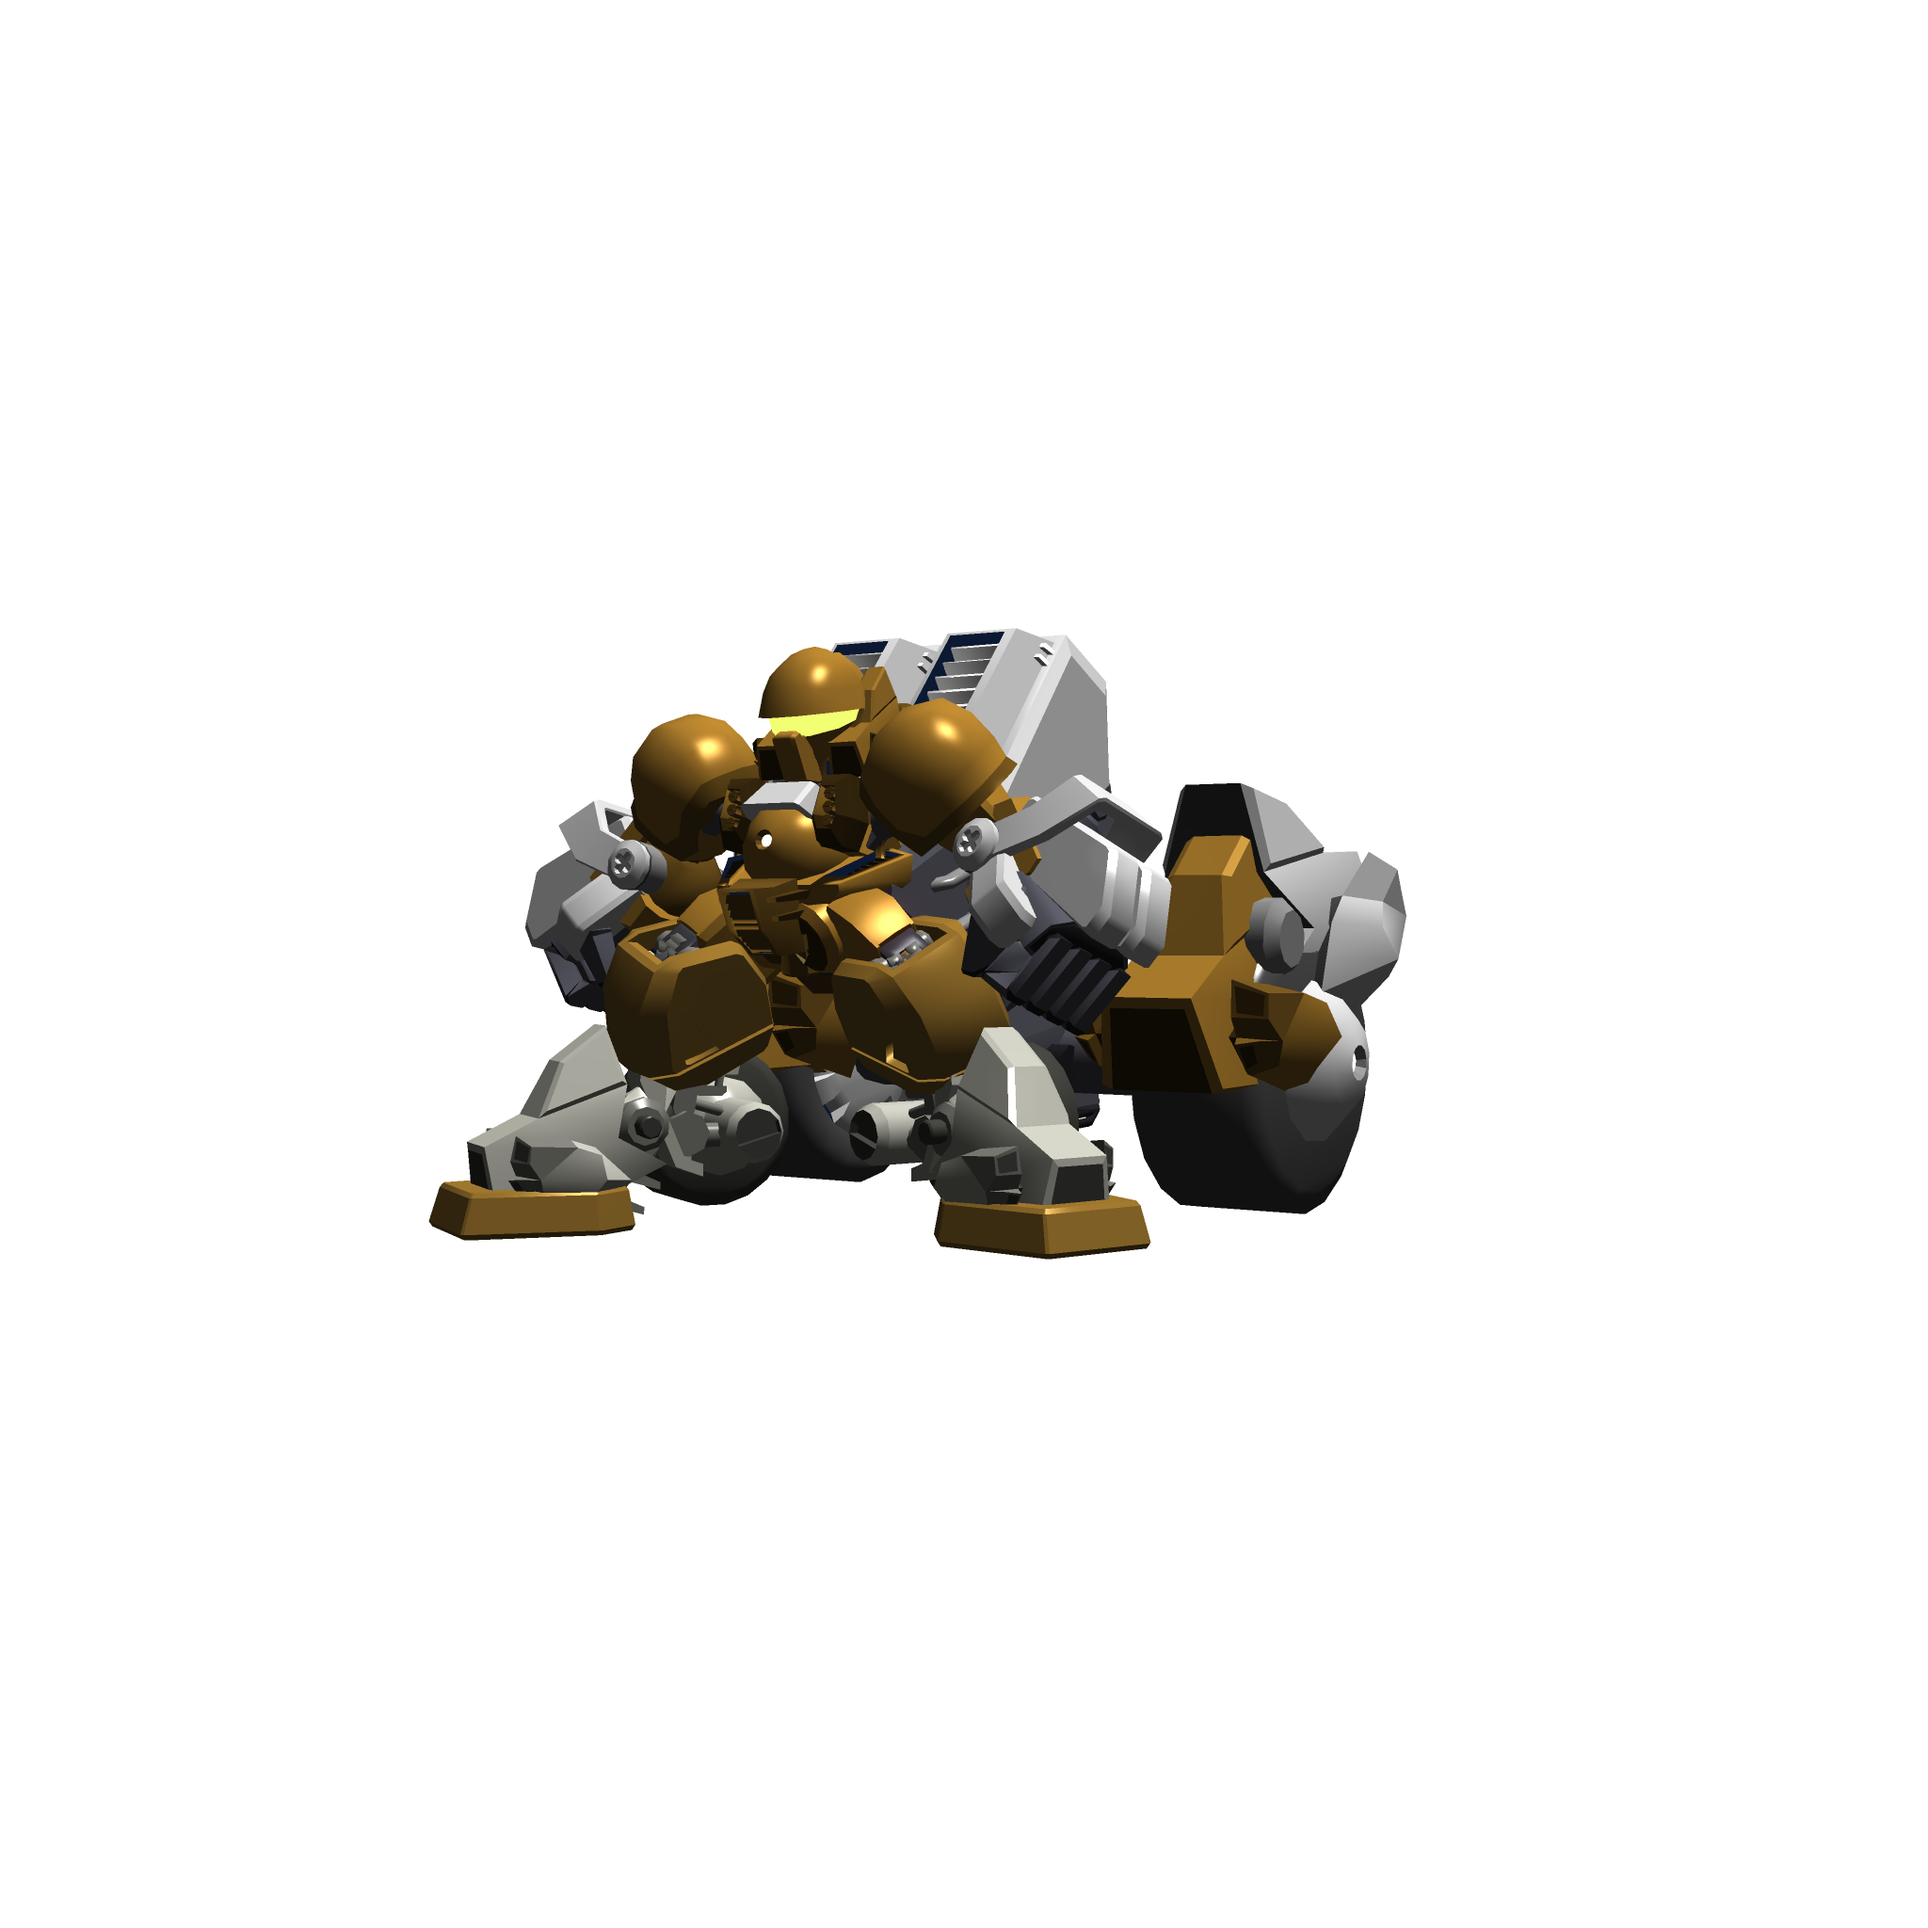
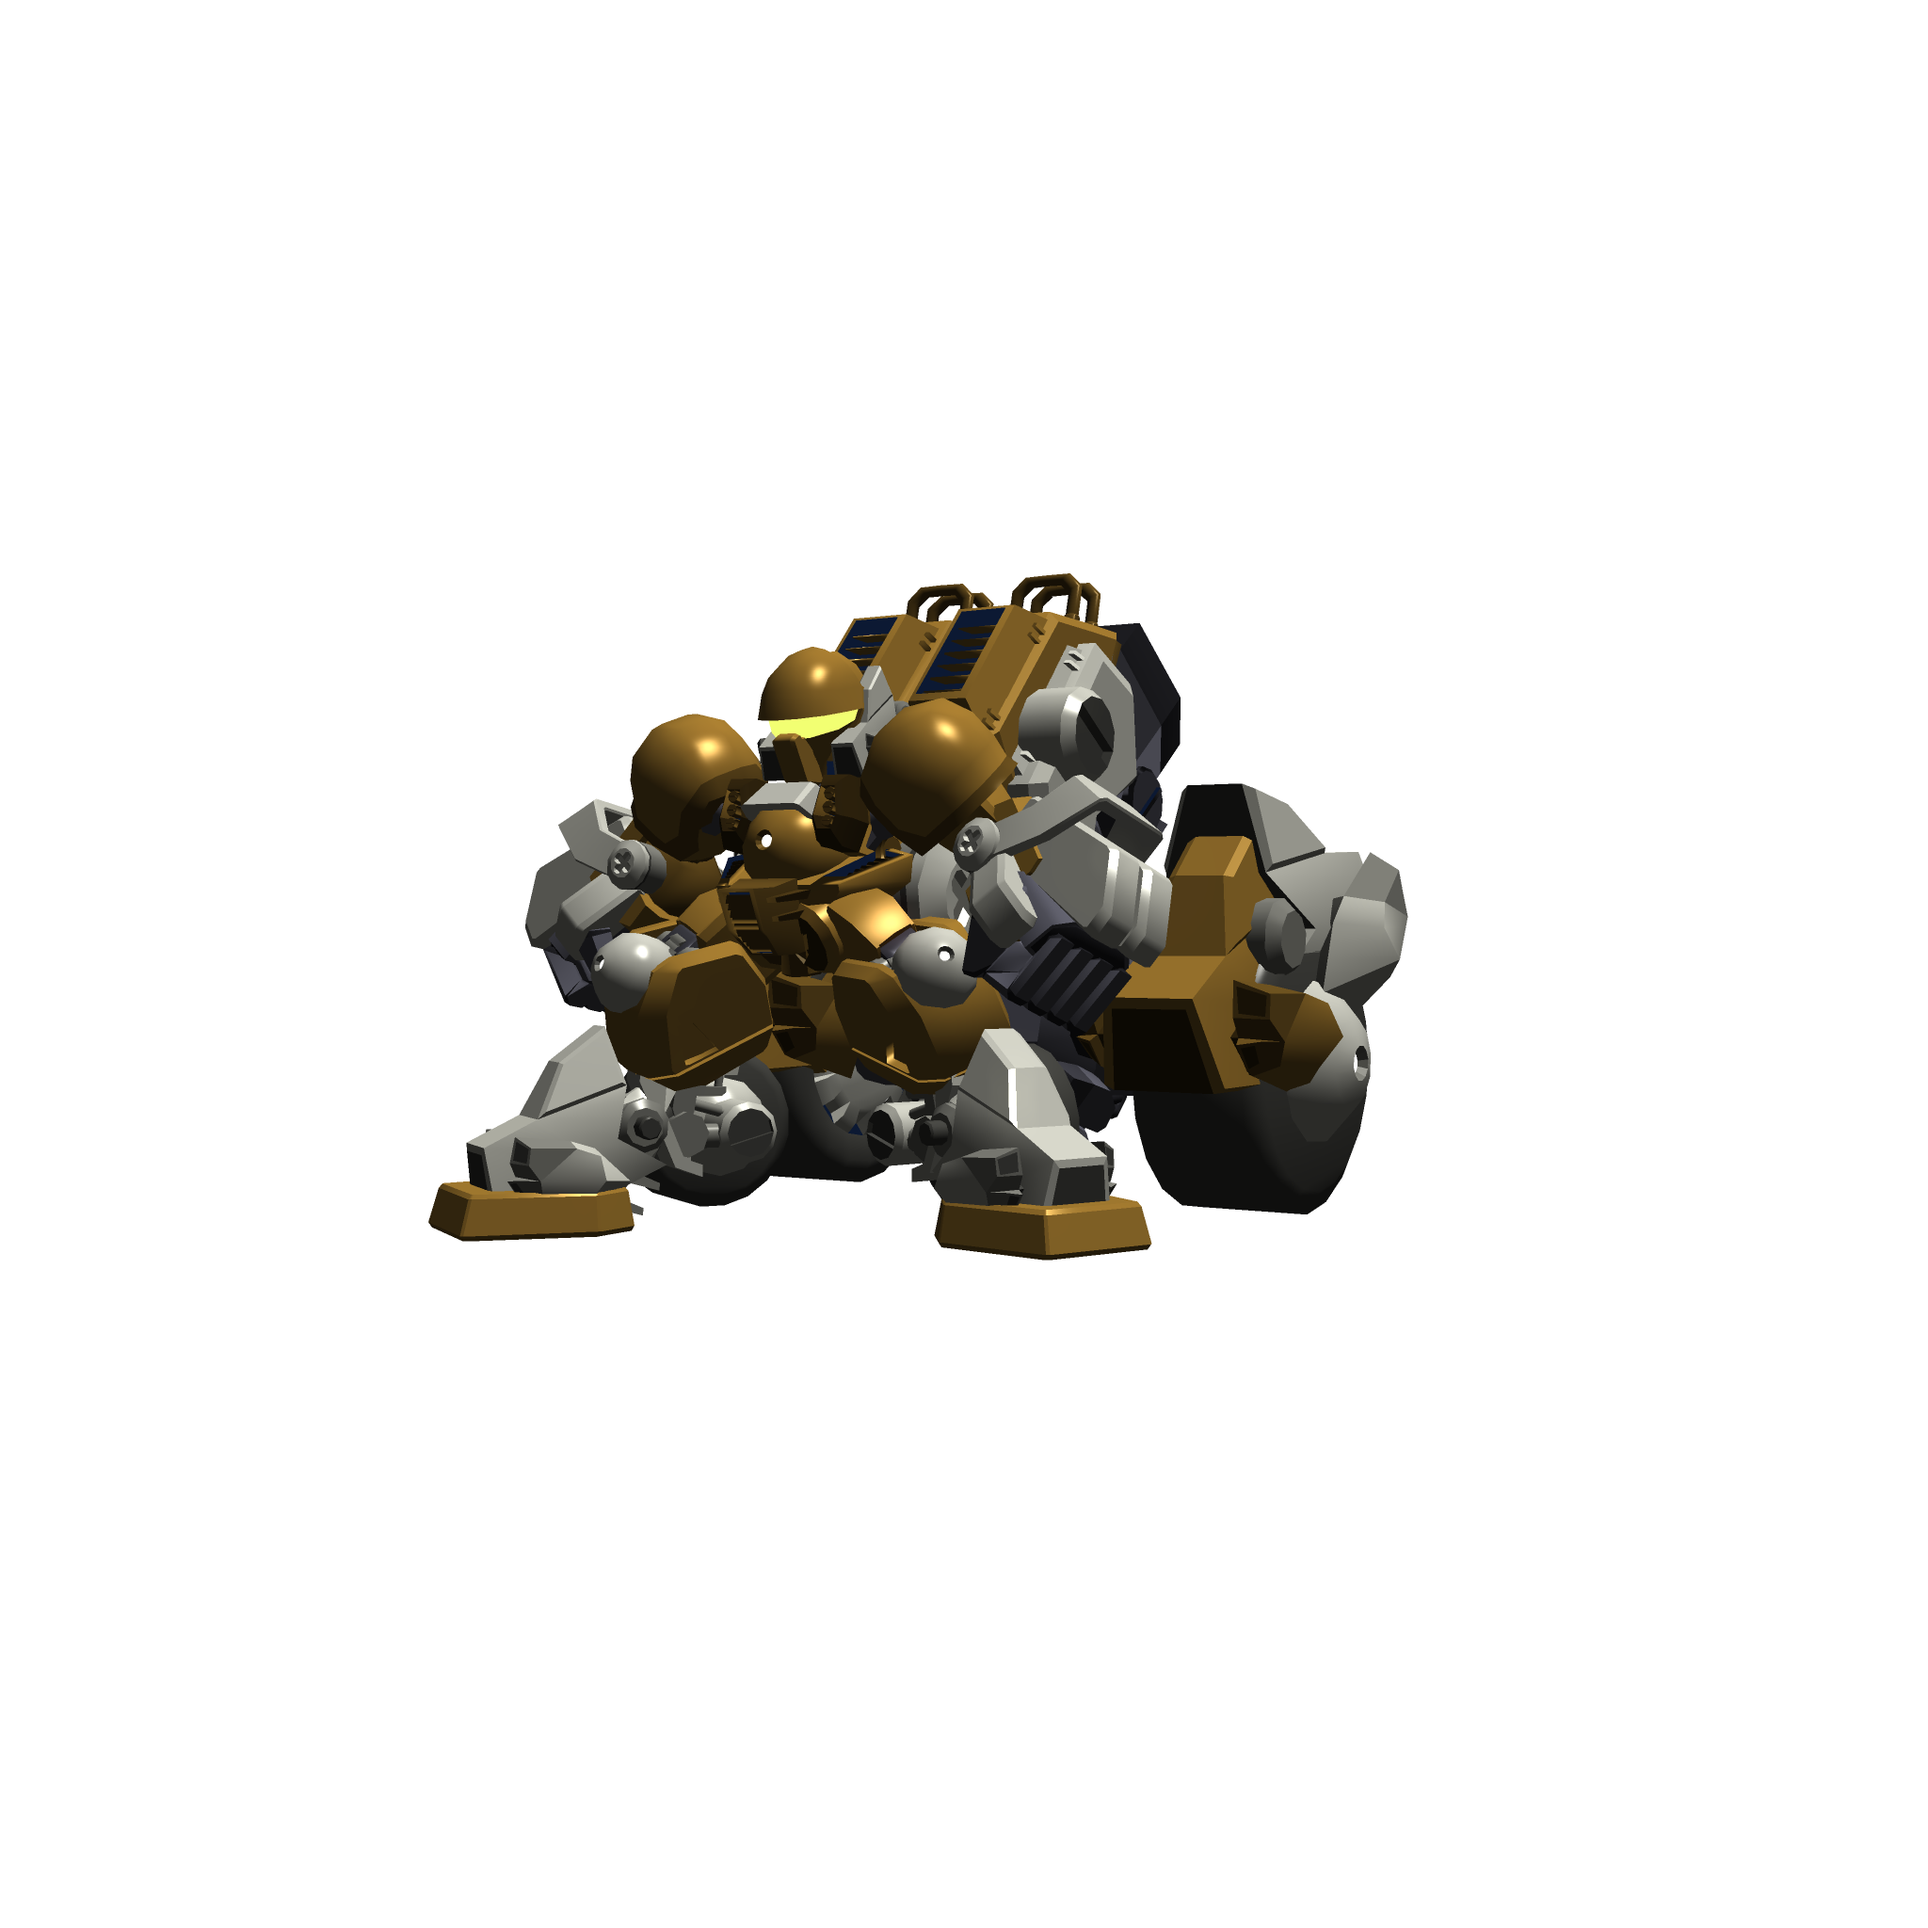
立ちポーズおよびオフセットメッシュを調整

diff --git a/src/js/game-object/armdozer/gran-dozer/meshes/create-animation-meshes.ts b/src/js/game-object/armdozer/gran-dozer/meshes/create-animation-meshes.ts
@@ -14,7 +14,7 @@ const MESH_HEIGHT = 920;
 /** オフセット座標 */
 const OFFSET = {
   x: 80,
-  y: 170,
+  y: 165,
 };
 
 /** アウトラインの太さ */
